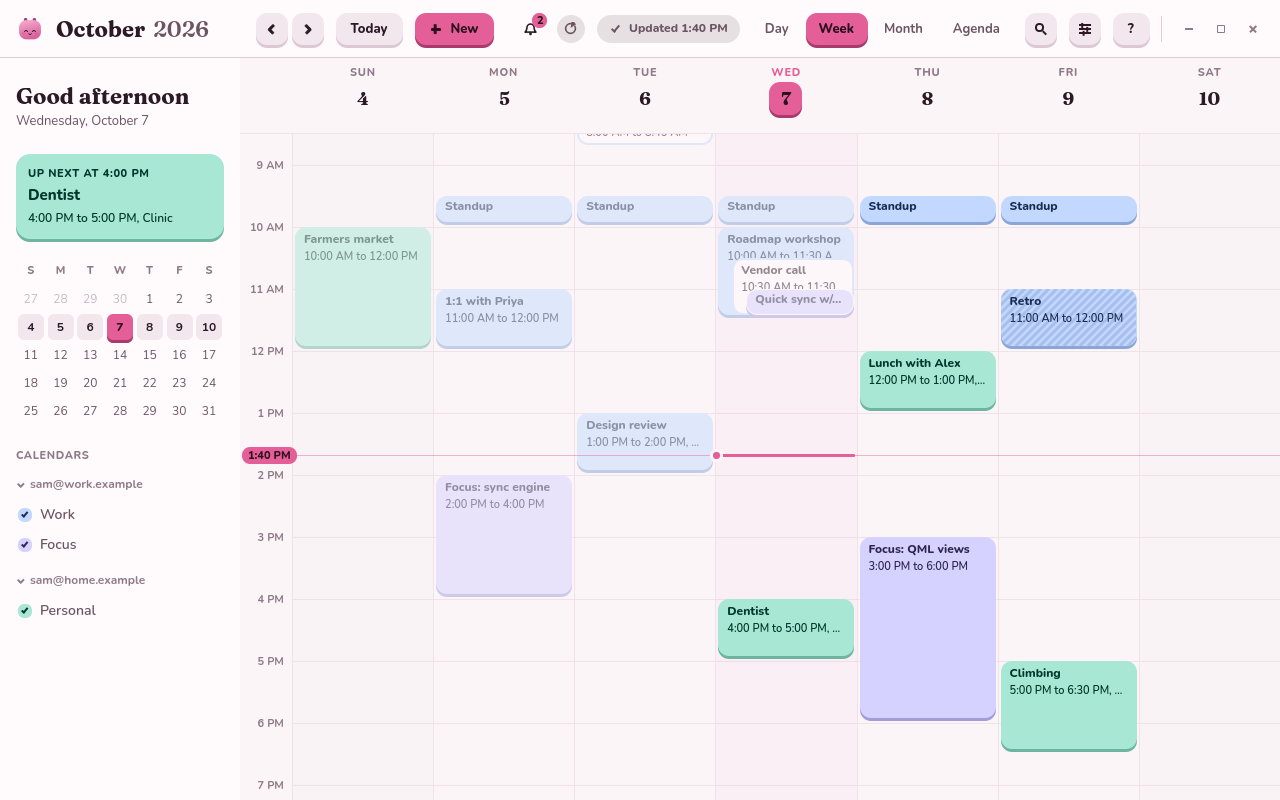
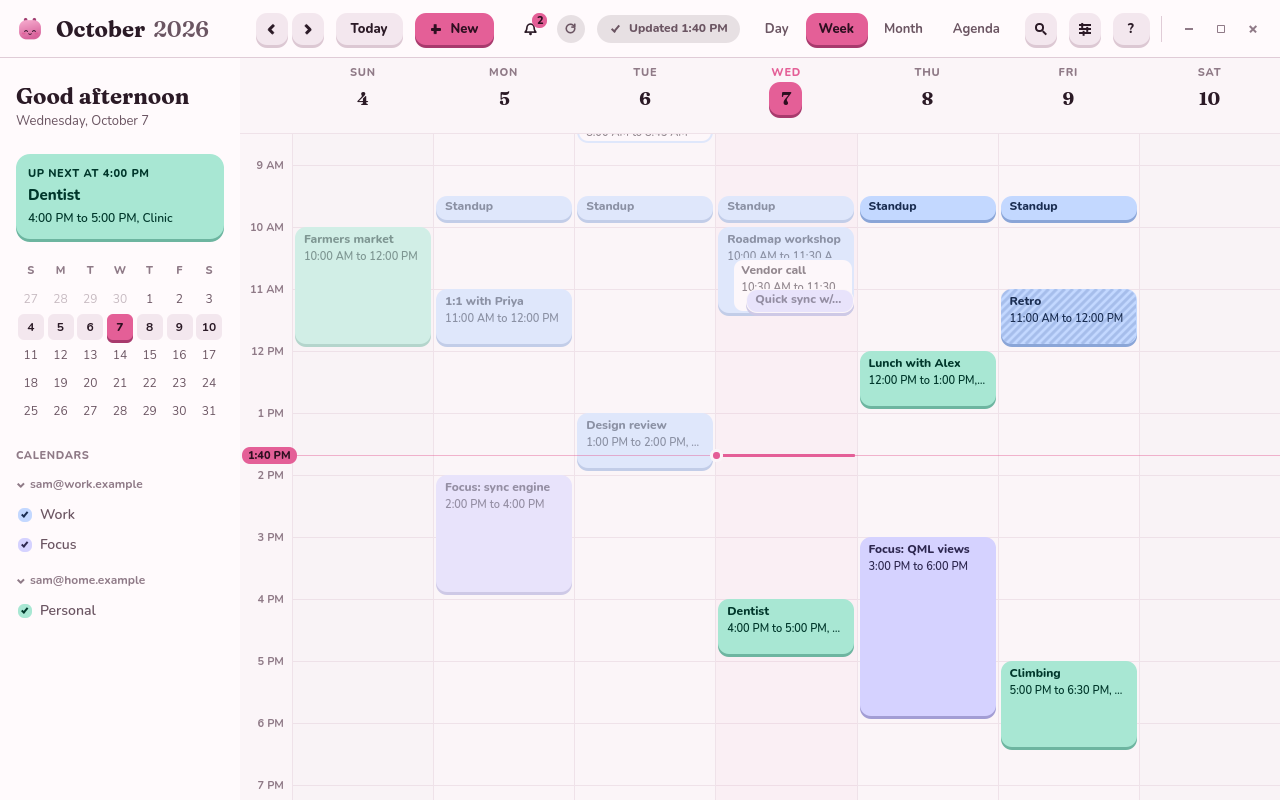
docs(site): show the tray entry and working locations

diff --git a/www/index.html b/www/index.html
@@ -46,8 +46,9 @@
   <li><strong>Quick to add</strong><span>Type "Lunch with Alex tomorrow 12-1pm at Cafe Sol", or drag across the week.</span></li>
   <li><strong>Events your way</strong><span>Times, repeats down to "every 2 weeks on Monday and Thursday", places with search and maps, and guests from your contacts.</span></li>
   <li><strong>Invitations</strong><span>Answer for one event or the whole series, from the event or the tray of waiting invitations.</span></li>
-  <li><strong>Reminders</strong><span>Desktop notifications with a button to join the video call, even when the link is in the notes.</span></li>
+  <li><strong>Reminders</strong><span>Desktop notifications with a button to join the video call, even when the link is in the notes, and a tray entry while Callie runs in the background.</span></li>
   <li><strong>Make it yours</strong><span>Callie and Callie Light, or your own theme: change any color, import and export themes.</span></li>
+  <li><strong>Where you work</strong><span>Home or Office, as you set it in Google Calendar, under each day's date.</span></li>
   <li><strong>A terminal, too</strong><span>The <code>callie</code> command lists, searches, adds and answers, with JSON for scripts.</span></li>
 </ul>
 
